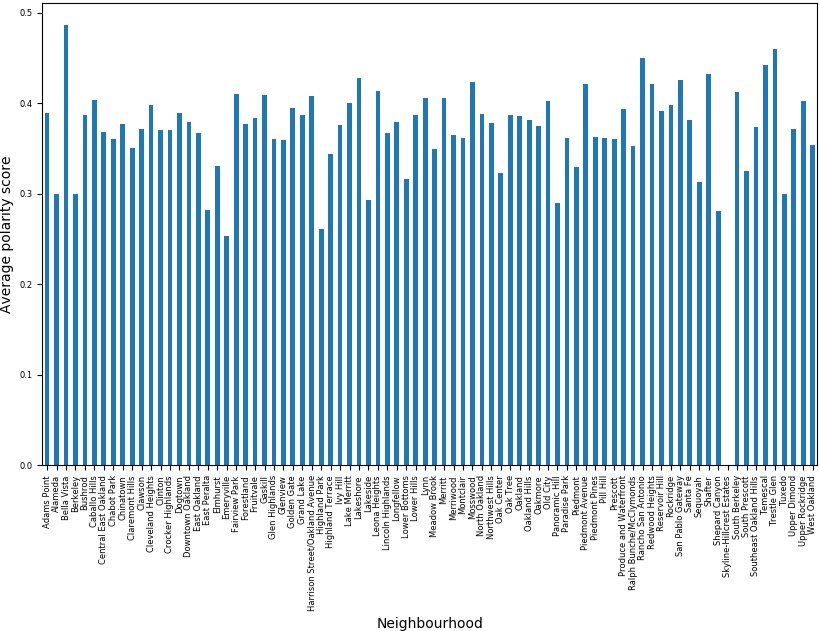
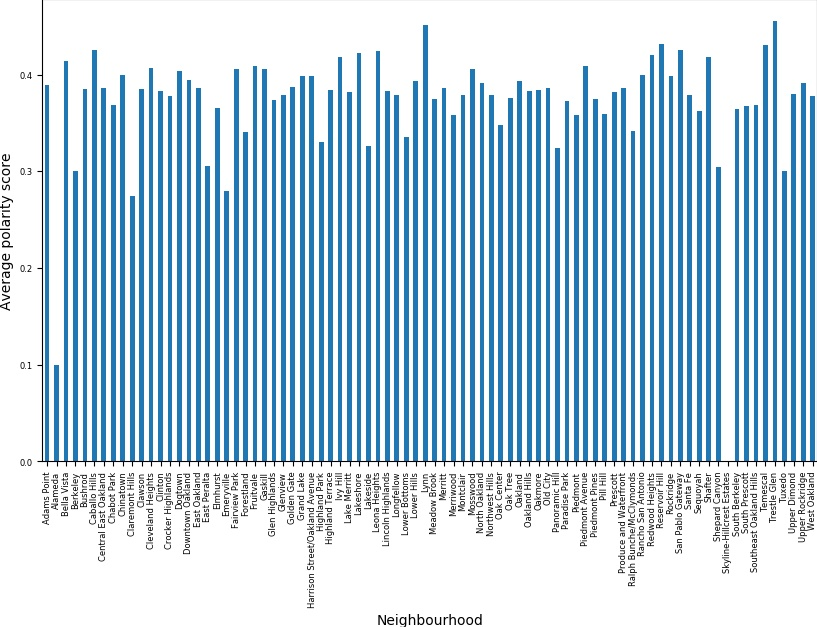
was created the method extract topic and sentimental analysis

diff --git a/src/blog_post/data_pre_process/data_cleanup.py b/src/blog_post/data_pre_process/data_cleanup.py
@@ -16,6 +16,9 @@ class CleanUp():
         data = self.merge_csv()
         clean_data = self.clean_dataset(data)
         self.__write_clean_dataset(clean_data, Settings.cleaned_dataset_file)
+        data_without_stop_word = self.remove_stopwords(clean_data)
+        data_without_stop_word['comments'] = data_without_stop_word['comments'].apply(self.lemmatize_text)
+        self.__write_clean_dataset(data_without_stop_word, Settings.data_without_stopword_file)
         self.__logger.info('clean up was completed')
 
     def __read_dataset(self, dataset_file):
@@ -39,15 +42,15 @@ class CleanUp():
         self.__logger.info(data.isnull().sum())
         # removing NA from column comments
         data.dropna(subset=['comments'], axis=0, inplace=True)
-        # removing short words
-        data['comments'] = \
-            data['comments'].str.split().map(lambda sl: " ".join(s for s in sl if len(s) > 4))
         # removing everything except alphabets`
-        data['comments'] = data['comments'].str.replace("[^a-zA-Z#]", " ")
+        data['comments'] = data['comments'].str.replace("[^A-Za-z0-9]", " ")
         data['comments'] = data['comments'].str.replace('\d+', '')
-        clean_data = self.remove_stopwords(data)
-        data['comments'] = data['comments'].apply(self.lemmatize_text)
-        return clean_data
+        data['comments'] = data['comments'].str.replace('[^\w\s]', '')
+        data['comments'] = \
+            data['comments'].str.split().map(lambda sl: " ".join(s for s in sl if len(s) > 2))
+        # remove extra white spaces
+        data['comments'] = data['comments'].replace('\s+', ' ', regex=True)
+        return data
 
     def lemmatize_text(self, text):
         lemma = WordNetLemmatizer()
@@ -59,12 +62,18 @@ class CleanUp():
         additional_stopwords = ['would','could', 'will', 'francisco','lauren','kevin', 'can', 'may', 'might', 'must',
                                 'and', 'i', 'a', 'and', 'so', 'arnt', 'this', 'when', 'did',  'there', 'street',
                                 'all', 'front', 'there', 'traci', 'jon', 'jasmine', 'kerry', 'jarrett', 'steve',
-                                'abiel', 'moreover','zoe','every'  ]
+                                'abiel', 'moreover','zoe','every']
         stop_words.extend(additional_stopwords)
+
+        data['comments'] = \
+            data['comments'].str.split().map(lambda sl: " ".join(s for s in sl if len(s) > 4))
+
+        data['comments'] = data['comments'].replace('\s+', ' ', regex=True)
+
         data.dropna(subset=['comments'], axis=0, inplace=True)
 
         data.loc[:, 'comments'] = data['comments'].apply(
             lambda x: ' '.join([word for word in word_tokenize(x.lower()) if word not in stop_words]))
+
+        data['comments'] = data['comments'].str.strip()
         return data
-
-

diff --git a/src/blog_post/visualization/visualization_result.py b/src/blog_post/visualization/visualization_result.py
@@ -10,24 +10,32 @@ class PlotModel():
     def __init__(self):
         self.__logger = logging.getLogger('PlotModel')
 
+    def review_polarity_level(self, data):
+        plt.figure(figsize=(8, 4))
+        ax = data['label_polarity'].value_counts().plot(kind='bar',color="indianred")
+        ax.set_xlabel("polarity level", fontsize=12)
+        ax.set_ylabel("count", fontsize=12)
+        plt.savefig(Settings.polarity_level_plot, transparent=True,
+                    bbox_inches='tight', pad_inches=0)
+        plt.show()
+
     def review_polarity(self, array_polarity_score):
         plt.figure(figsize=(8, 4))
-        ax = sns.barplot(array_polarity_score[0], array_polarity_score[1], color="salmon", saturation=.5, label='Boston')
+        ax = sns.barplot(array_polarity_score[0], array_polarity_score[1], color="salmon", saturation=.5, label='Oakland')
         ax.set_xlabel('Airbnb review', fontsize=14)
         ax.set_ylabel('Number of reviews', fontsize=14)
         plt.savefig(Settings.polarity_score_plot, transparent=True,
                     bbox_inches='tight', pad_inches=0)
         plt.show()
 
-
     def review_neighborhood(self, neighborhood_df):
-        ax = neighborhood_df[['mean']].plot.bar(figsize=(10, 6), legend=False, fontsize=6)
+        ax = neighborhood_df[['mean']].plot.bar(figsize=(10, 6), legend=False, fontsize=6, color = 'olivedrab')
         ax.set_xlabel("Neighbourhood", fontsize=10)
         ax.set_ylabel("Average polarity score", fontsize=10)
         plt.savefig(Settings .average_polarity_neighborhood, transparent=True,
                     bbox_inches='tight', pad_inches=0)
         plt.show()
-        ax = neighborhood_df[['count']].plot.bar(figsize=(10, 6), legend=False, fontsize=6)
+        ax = neighborhood_df[['count']].plot.bar(figsize=(10, 6), legend=False, fontsize=6, color = 'olivedrab')
         ax.set_xlabel("Neighbourhood", fontsize=10)
         ax.set_ylabel("Number of review", fontsize=10)
         plt.savefig(Settings.count_polarity_neighborhood, transparent=True,

diff --git a/src/blog_post/sentimental_analysis/data_analysis.py b/src/blog_post/sentimental_analysis/data_analysis.py
@@ -17,13 +17,22 @@ class AnalysisData():
         clean_data = self.steam_word(data)
         polarity_score_list = [round(TextBlob(word).polarity,1) for word in clean_data['comments']]
         data['polarity_score'] = polarity_score_list
+        data['label_polarity'] = 'neutral'
+        data.loc[data[data['polarity_score'] == 0].index, ['label_polarity']] = 'neutral'
+        data.loc[data[(data['polarity_score'] > 0) & (data['polarity_score'] < 0.6)].index,
+                 ['label_polarity']] = 'positive'
+        data.loc[data[(data['polarity_score'] >= 0.6) & (data['polarity_score'] <= 1.0)].index,
+                 ['label_polarity']] = 'highly positive'
+        data.loc[data[(data['polarity_score'] < 0) & (data['polarity_score'] > -0.6)].index,
+                 ['label_polarity']] = 'negative'
+
         array_polarity_score = np.unique(polarity_score_list, return_counts=True)
         neighborhood_df = data[['polarity_score', 'neighbourhood']].groupby(['neighbourhood']).agg(['mean', 'count'])
         neighborhood_df.columns = neighborhood_df.columns.droplevel(0)
         handle_plot = PlotModel()
+        handle_plot.review_polarity_level(data)
         handle_plot.review_polarity(array_polarity_score)
         handle_plot.review_neighborhood(neighborhood_df)
-
 
     def steam_word(self, data):
         data.dropna(subset=['comments'], axis=0, inplace=True)

diff --git a/src/blog_post/settings/settings.py b/src/blog_post/settings/settings.py
@@ -7,17 +7,21 @@ class Settings():
        to folder data on user's environment variables.
     """
     # Class attributes for paths
-    base_dir = os.getenv("BOSTON_AIRBNB_BASE_DATA_DIR")
+    base_dir = os.getenv("AIRBNB_BASE_DATA_DIR")
     # parser file paths
     listings_file = base_dir + '/input/Oakland/listings.csv'
     reviews_file = base_dir + '/input/Oakland/reviews.csv'
     # clean up paths
-    cleaned_dataset_file = base_dir + '/output/clean_data_boston.csv'
+    cleaned_dataset_file = base_dir + '/output/clean_data.csv'
+
+    #clean with stop_words
+    data_without_stopword_file = base_dir + '/output/data_without_stopword.csv'
 
     #topics
     user_topic_file = base_dir + '/output/user_topics.csv'
     # plots
     polarity_score_plot = base_dir +  '/output/polarity_score.jpg'
+    polarity_level_plot = base_dir +  '/output/polarity_level.jpg'
     topics_plot = base_dir +  '/output/topics.jpg'
     average_polarity_neighborhood = base_dir + '/output/average_polarity_score_neighborhood.jpg'
     count_polarity_neighborhood = base_dir + '/output/count_polarity_score_neighborhood.jpg'

diff --git a/src/blog_post/extract_topic/user_topic.py b/src/blog_post/extract_topic/user_topic.py
@@ -1,4 +1,6 @@
 import pandas as pd
+from sklearn.decomposition import LatentDirichletAllocation
+from sklearn.feature_extraction.text import CountVectorizer
 import logging
 from blog_post.visualization.visualization_result import PlotModel
 from blog_post.settings.settings import Settings
@@ -9,13 +11,11 @@ class GetTopic():
         self.__logger = logging.getLogger('user_topic.GetTopic')
         self.n_topics = 4
         self.num_words_topic = 25
-        self.df = pd.read_csv(Settings.cleaned_dataset_file)
+        self.df = pd.read_csv(Settings.data_without_stopword_file)
         self.df.dropna(subset=['comments'], axis=0, inplace=True)
         self.num_rows = self.df['comments'].size
 
     def execute_lda_model(self):
-        from sklearn.decomposition import LatentDirichletAllocation
-        from sklearn.feature_extraction.text import CountVectorizer
         # the vectorizer object will be used to transform text to vector form
         vectorizer = CountVectorizer(max_df=0.9, min_df=25, token_pattern='\w+|\$[\d\.]+|\S+')
         # apply transformation
